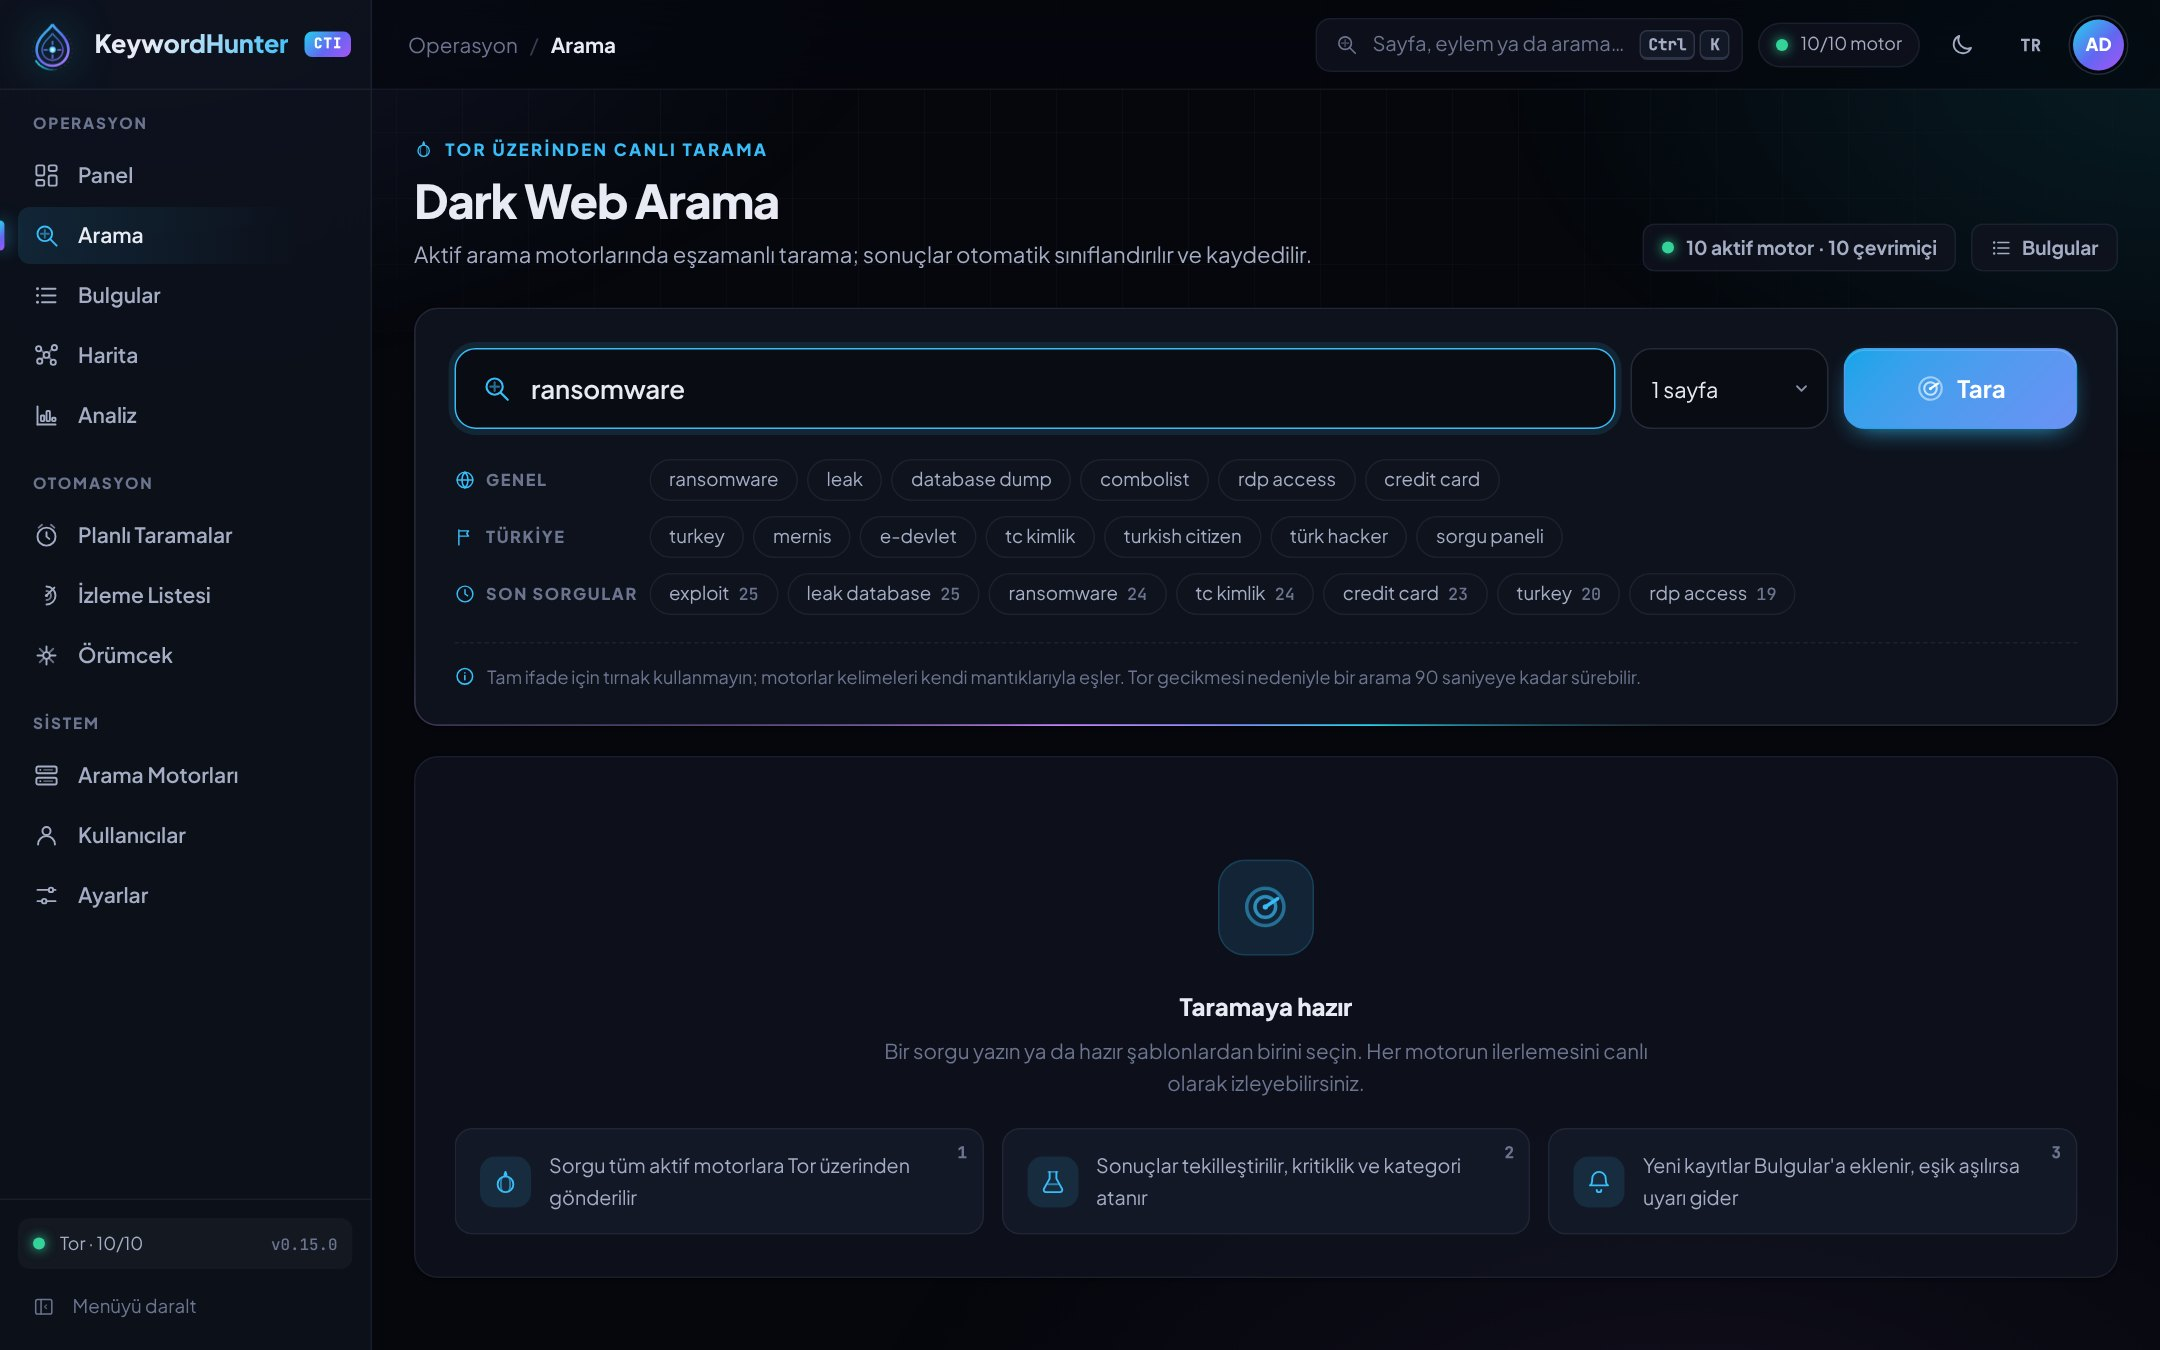
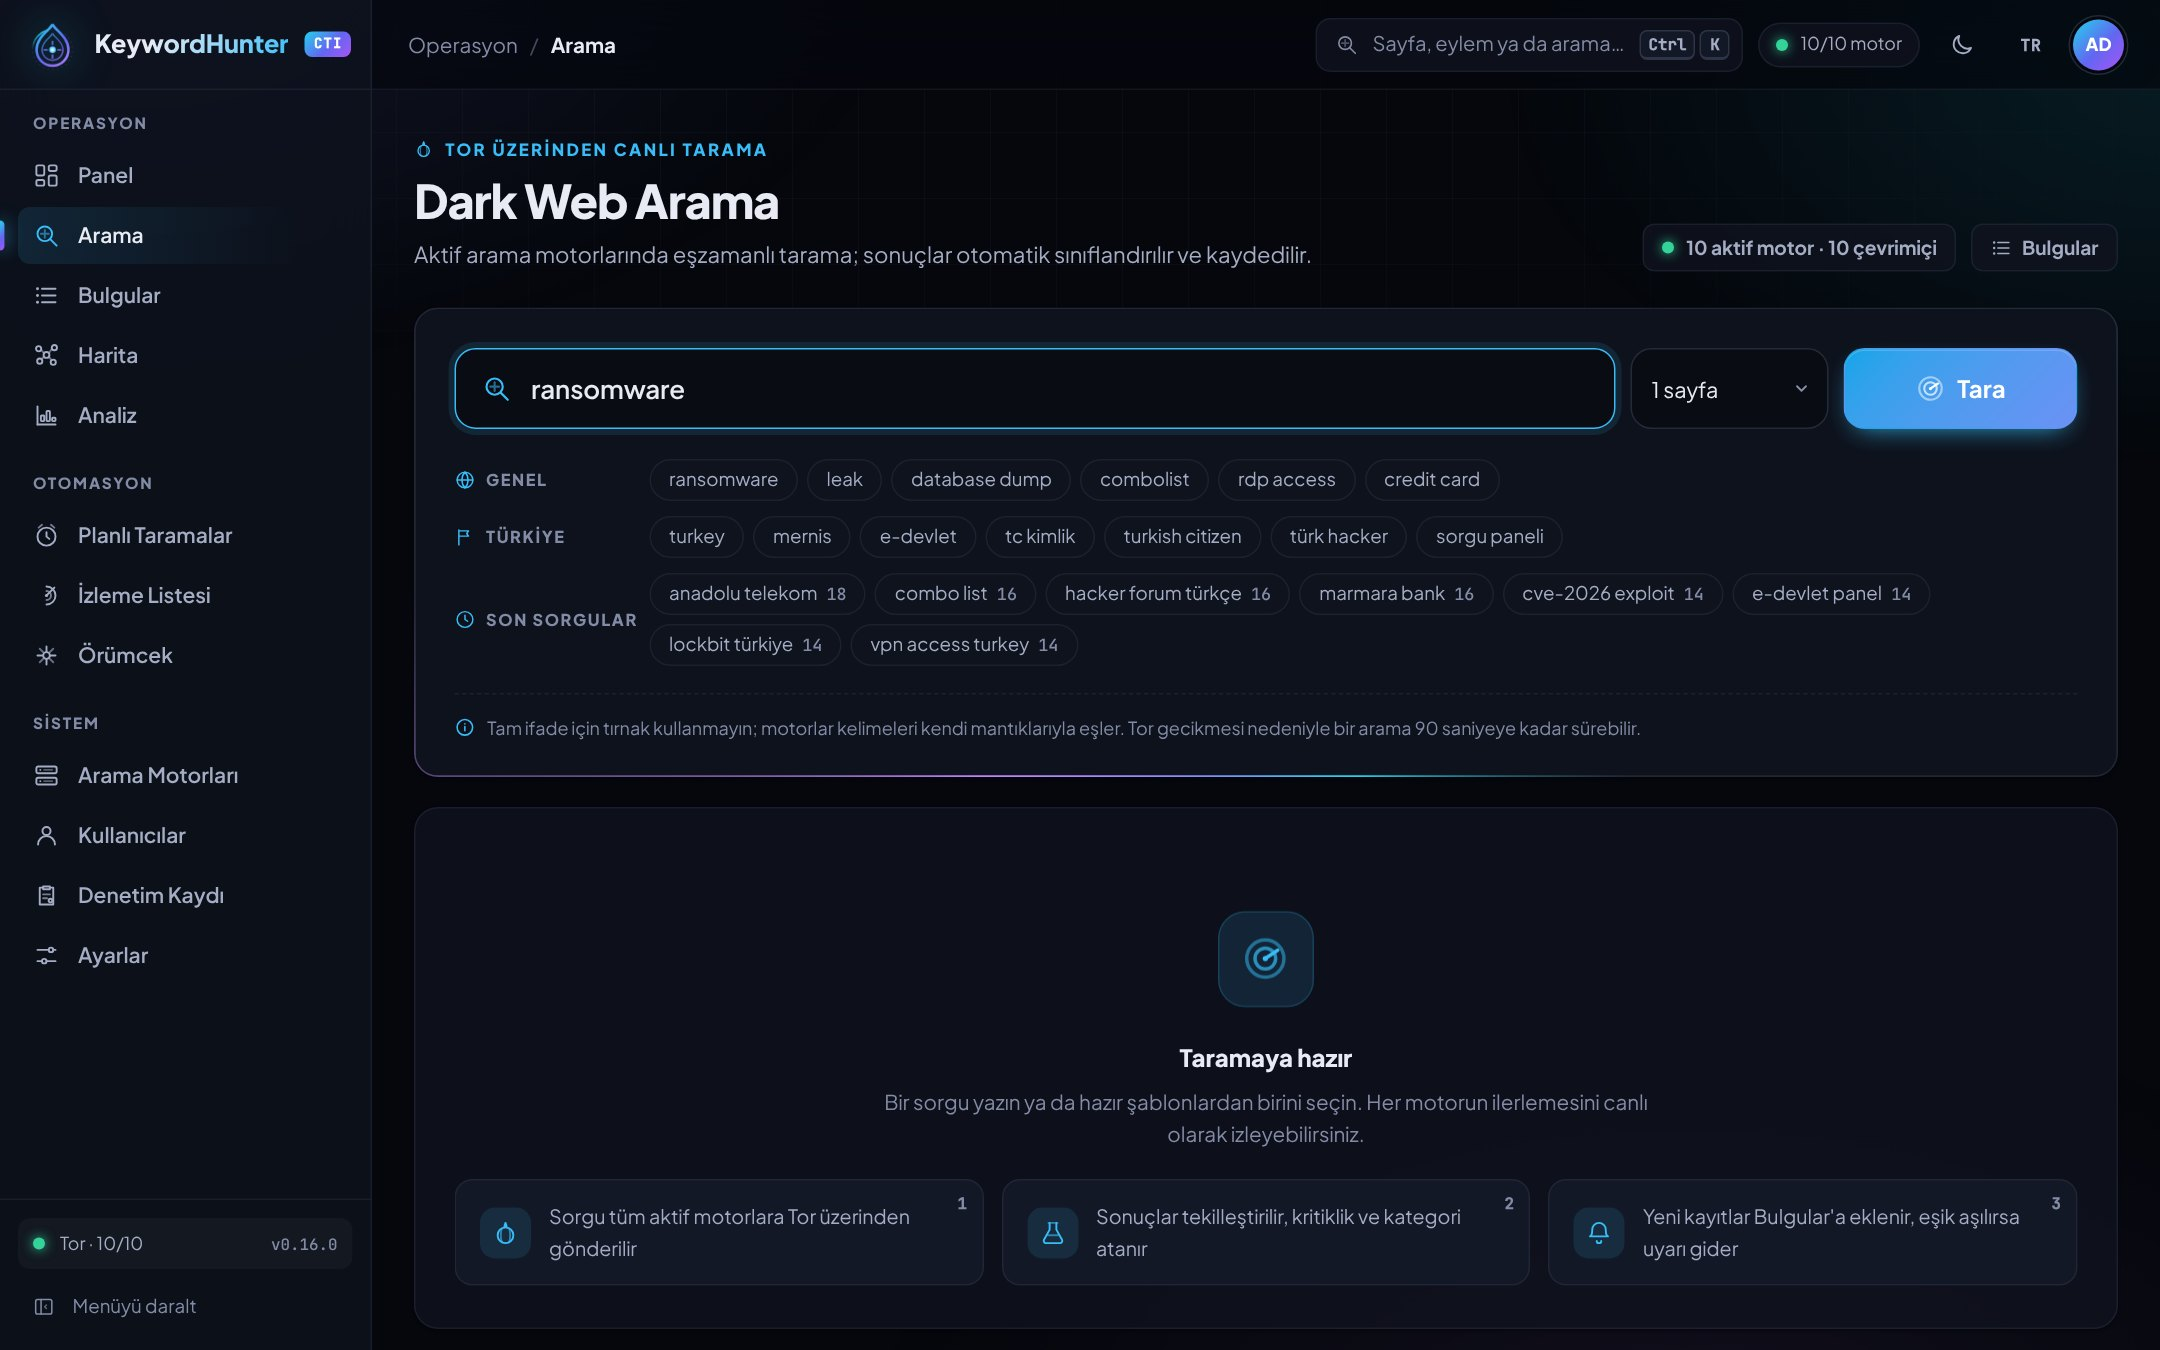
docs+release: v0.16.0 "Sentinel" — screenshots, README, social preview
- Version bumped to 0.16.0; CHANGELOG entry finalized.
- Regenerated all docs screenshots from the deterministic khseed demo DB;
  added audit log, account (2FA + API tokens) and integrations shots.
- README (TR/EN): feature rows for the audit log and 2FA, gallery rows for
  the new screens.
- docs/assets/social-preview.png (1280x640) for the GitHub social card.

Claude-Session: https://claude.ai/code/session_01Kdg9fz88HBQwT4d3xqkzoR

diff --git a/pkg/web/server.go b/pkg/web/server.go
@@ -31,7 +31,7 @@ import (
 )
 
 // Version uygulama sürümü (derlemede -ldflags ile geçersiz kılınabilir).
-var Version = "0.15.0"
+var Version = "0.16.0"
 
 //go:embed templates/*
 var templateFS embed.FS

diff --git a/README.md b/README.md
@@ -51,6 +51,8 @@ CTI platformu.**
 | 🕷 **Örümcek** | Tohum .onion'dan derinlik/sayfa sınırlı, nazik BFS site taraması; keşfedilen sayfalar bulgu olur |
 | 🍪 **Site Profilleri** | Host bazlı Cookie + User-Agent + JS render (giriş duvarı / captcha arkası) |
 | 👥 **Ekip** | Çok kullanıcılı, rol tabanlı erişim (admin / analist / izleyici), parola sıfırlama, oturum iptali, SOAR/SIEM için kişisel **API token'ları** (okuma/yazma kapsamı, süre sonu, iptal) |
+| 🧾 **Denetim Kaydı** | Kim, ne zaman, nereden, ne yaptı: giriş, rol, vaka, ayar, token ve dışa aktarma olayları; **SHA-256 hash zinciri** ile kurcalanma tespiti, tek tıkla zincir doğrulama, filtre, CSV/JSON dışa aktarma, saklama süresi (`AUDIT_RETENTION_DAYS`) |
+| 🔐 **İki Adımlı Doğrulama** | RFC 6238 TOTP (QR + manuel anahtar), tek kullanımlık kurtarma kodları, `REQUIRE_2FA=admins\|all` ile zorunlu kılma, sırlar `APP_SECRET`'tan türetilen anahtarla AES-256-GCM şifreli, admin tarafından sıfırlama |
 | 🔗 **Entegrasyonlar** | OpenCTI / Microsoft Sentinel için salt okunur **TAXII 2.1 sunucusu** (sabit koleksiyonlar, kararlı STIX nesneleri, token ile Basic/Bearer); seçili bulguları tek **MISP olayı** olarak gönderme (şifreli anahtar, SSRF korumalı, isteğe bağlı otomatik gönderim) — [docs/INTEGRATIONS.md](docs/INTEGRATIONS.md) |
 
 ### Arayüz
@@ -114,6 +116,8 @@ değiştiğinde kullanıcı özelleştirmeleri korunur.
 | <img src="docs/screenshots/results.jpg" alt="Bulgular"> **Bulgular** — filtre, vaka yönetimi, toplu işlem | <img src="docs/screenshots/graph.jpg" alt="Harita"> **Harita** — ilişki grafiği ve derinleştirme |
 | <img src="docs/screenshots/analytics.jpg" alt="Analiz"> **Analiz** — tema duyarlı grafikler | <img src="docs/screenshots/watchlist.jpg" alt="İzleme"> **İzleme Listesi** — uptime, değişiklik, captcha |
 | <img src="docs/screenshots/monitor.jpg" alt="Motorlar"> **Motorlar** — canlı sağlık ve aç/kapat | <img src="docs/screenshots/scheduled.jpg" alt="Planlı taramalar"> **Planlı Taramalar** — webhook bildirim merkezi |
+| <img src="docs/screenshots/audit.jpg" alt="Denetim kaydı"> **Denetim Kaydı** — hash zinciri doğrulama | <img src="docs/screenshots/account.jpg" alt="Hesabım"> **Hesabım** — 2FA ve API token'ları |
+| <img src="docs/screenshots/integrations.jpg" alt="Entegrasyonlar"> **Entegrasyonlar** — MISP ve TAXII 2.1 | <img src="docs/screenshots/dashboard-dark.jpg" alt="Koyu tema"> **Koyu tema** — Nightwatch tasarım sistemi |
 | <img src="docs/screenshots/palette.jpg" alt="Komut paleti"> **Komut paleti** — <kbd>Ctrl</kbd>+<kbd>K</kbd> | <img src="docs/screenshots/dashboard-light.jpg" alt="Açık tema"> **Açık tema** — tek tıkla ya da sistemle uyumlu |
 
 <p align="center"><img src="docs/screenshots/mobile.jpg" alt="Mobil görünüm" width="300"></p>

diff --git a/README.en.md b/README.en.md
@@ -47,6 +47,8 @@ classifies findings automatically, extracts IOCs, monitors sites and alerts on n
 | 🛰 **Engines** | Live health, latency, success rate, enable/disable (actually affects search), automatic Tor circuit renewal (NEWNYM) |
 | 🕷 **Crawler** | Polite, depth/page-bounded BFS from a seed .onion; discovered pages become findings |
 | 🍪 **Site profiles** | Per-host Cookie + User-Agent + JS rendering (behind login walls / captchas) |
+| 🧾 **Audit log** | Who did what, when, from where: sign-ins, roles, cases, settings, tokens and exports; **SHA-256 hash chain** for tamper evidence, one-click chain verification, filters, CSV/JSON export, retention (`AUDIT_RETENTION_DAYS`) |
+| 🔐 **Two-factor auth** | RFC 6238 TOTP (QR + manual key), single-use recovery codes, enforce with `REQUIRE_2FA=admins\|all`, secrets AES-256-GCM encrypted with a key derived from `APP_SECRET`, admin reset |
 | 🔗 **Integrations** | Read-only **TAXII 2.1 server** for OpenCTI / Microsoft Sentinel (fixed collections, stable STIX objects, token via Basic/Bearer); push selected findings to **MISP** as a single event (encrypted key, SSRF-guarded, optional auto-push) — [docs/INTEGRATIONS.md](docs/INTEGRATIONS.md) |
 
 ## 🚀 Quick start
@@ -81,6 +83,8 @@ customisations survive engine list updates.
 | <img src="docs/screenshots/results.jpg" alt="Findings"> **Findings** | <img src="docs/screenshots/graph.jpg" alt="Map"> **Map** |
 | <img src="docs/screenshots/analytics.jpg" alt="Analytics"> **Analytics** | <img src="docs/screenshots/watchlist.jpg" alt="Watchlist"> **Watchlist** |
 | <img src="docs/screenshots/monitor.jpg" alt="Engines"> **Engines** | <img src="docs/screenshots/scheduled.jpg" alt="Scheduled scans"> **Scheduled scans** |
+| <img src="docs/screenshots/audit.jpg" alt="Audit log"> **Audit log** | <img src="docs/screenshots/account.jpg" alt="My account"> **My account** — 2FA & API tokens |
+| <img src="docs/screenshots/integrations.jpg" alt="Integrations"> **Integrations** — MISP & TAXII 2.1 | <img src="docs/screenshots/dashboard-dark.jpg" alt="Dark theme"> **Dark theme** |
 | <img src="docs/screenshots/palette.jpg" alt="Command palette"> **Command palette** | <img src="docs/screenshots/dashboard-light.jpg" alt="Light theme"> **Light theme** |
 
 ## 🛡 Security model

diff --git a/CHANGELOG.md b/CHANGELOG.md
@@ -1,6 +1,11 @@
 # Değişiklik Günlüğü
 
-## Yayımlanmamış
+## v0.16.0 — 2026-10-17 · "Sentinel"
+
+Ekip ve entegrasyon sürümü: denetim kaydı, kişisel API token'ları, iki adımlı
+doğrulama, TAXII 2.1 / MISP entegrasyonu, tamamen sıkı CSP, çok dilli
+sınıflandırıcı ve CI'da uçtan uca test paketi. Her özellik üç bağımsız
+incelemeden (güvenlik, doğruluk, UX/i18n) ve tam kalite kapısından geçti.
 
 ### Uçtan uca test paketi (Playwright + axe) CI'da
 - `cmd/khseed`: boş bir veritabanını deterministik (sabit çekirdek), gerçekçi demo verisiyle kurar —
@@ -214,6 +219,11 @@ güvenlik/işlev hatalarının düzeltilmesi.
   kaldırıldı.
 
 ### Güvenlik
+- **Go 1.27.2 + `golang.org/x/net` 0.60 + `golang.org/x/crypto` 0.58:** govulncheck'in
+  koddan erişilebilir bulduğu 12 zafiyet kapatıldı (html/template GO-2026-6599/6600,
+  net/http, net/textproto, crypto/tls ve x/net HTTP/2). Docker imajları
+  golang:1.27-alpine / alpine:3.24, GitHub Actions Node 24 sürümlerine taşındı;
+  Dependabot güncellemeleri ekosistem başına gruplandı.
 - **CSP sıkılaştırıldı: `script-src 'self'`** (`'unsafe-inline'` kaldırıldı). Şablonlarda
   satır içi betik / `on*=` işleyici / `javascript:` URL'si yoktur; `templates_csp_test.go`
   bunu her şablon ve JS dosyası için zorlar. Davranış `data-action` delegasyonu ile
